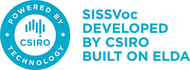
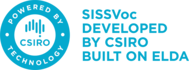
CC-2627 Rebrand to ARDC style guide
Rebrand the HTML pages to conform to the new ARDC style guide.
In particular, match the Portal's new updated header and footer.
Use updated logos.

RVA-40

diff --git a/common/resources/default/css/mystyle.css b/common/resources/default/css/mystyle.css
@@ -6,20 +6,15 @@
    overflow-wrap, but it didn't work (Firefox Mac 41: why?), so used the
    old-style word-wrap instead. */
 header h1 {
-    background: url("../images/molecule.png") no-repeat scroll 0 0 transparent;
+    background: none;
     line-height: 1em;
     word-wrap: break-word;
 }
 
-/* ANDS RVA Banner. */
-nav.site {
-    background: url("../images/ands-sissvoc-banner.png") no-repeat 0% 0%;
-    padding-top: 54px;
-}
-
 /* Indent any more info link in the header. */
 header p {
-    font-family: "Gill Sans", Arial, sans-serif;
+/*    font-family: "Gill Sans", Arial, sans-serif; */
+    font-family: 'Roboto', sans-serif;
     font-size: 130%;
     margin-left: 110px;
     padding-bottom: 10px;
@@ -33,4 +28,176 @@ header p {
 
 .pull-right {
     float: right !important;
+}
+
+/* Re-branding to ARDC style. */
+/* Make the page full width, and remove side panels */
+/* Remove "gradient" background. */
+/* Use new RVA logo. */
+
+/* Remove background image. */
+body {
+    background-image: none;
+    font-family: 'Roboto', sans-serif;
+    font-size: 14px;
+    color: black;
+}
+
+/* ANDS RVA Banner. */
+div.nav-site-container {
+    border: 1px solid transparent;
+    box-sizing: border-box;
+    line-height: 24px;
+}
+nav.site {
+    width:  1170px;
+    margin-right: auto;
+    margin-left: auto;
+    background: none;
+    padding-top: 0px;
+    height: 90px;
+    box-sizing: border-box;
+    padding-left: 15px;
+    padding-right: 15px;
+}
+nav.site * {
+    box-sizing: border-box;
+}
+
+#page-header {
+    -webkit-box-shadow: none;
+    -moz-box-shadow: none;
+    background-color: #7e408a;
+    margin: 0px;
+    width: 1140px;
+    margin-right: auto;
+    margin-left: auto;
+    padding-left: 15px;
+    padding-right: 15px;
+}
+
+
+#page-border {
+    padding-bottom: 15px;
+}
+#page-header-border, #page-border {
+    background: #e9e9e9;
+}
+#page-header-border {
+    padding-top: 15px;
+}
+
+#page {
+    -webkit-box-shadow: none;
+    -moz-box-shadow: none;
+    background: white;
+    margin: 0px;
+    width: 1140px;
+    margin-right: auto;
+    margin-left: auto;
+    padding-top: 15px;
+    padding-left: 15px;
+    padding-right: 15px;
+    padding-bottom: 15px;
+}
+
+header h1 {
+    /* This is based on h4 of the Portal. */
+    display: inline-block;
+    font-family: 'Roboto', sans-serif;
+    font-weight: bold;
+    font-size: 24px;
+    line-height: 32px;
+    color: black;
+    margin-left: 0px;
+    padding: 0.5em 0px 0.5em;
+}
+
+h1.vocab-title {
+    color: white;
+}
+
+.panel header h1 {
+    font-family: 'Roboto', sans-serif;
+    font-size: 24px;
+    line-height: 32px;
+}
+
+button, #openSearch {
+    font-family: 'Roboto', sans-serif;
+}
+
+footer .provenance {
+    background: none;
+    /*  color: revert; */
+    margin-top: 0px;
+    padding: 10px;
+    position: relative;
+}
+
+/* Heading "Linked Data API". */
+nav section.lda-heading {
+    /* Like h4 of the Portal. */
+    font-family: 'Roboto', sans-serif;
+    font-weight: bold;
+    font-size: 18px;
+    float: right;
+    margin-top: 20px;
+}
+nav section.lda-heading span {
+    display: inline-block;
+    vertical-align: middle;
+}
+nav section.lda-heading span.image {
+    display: inline-block;
+    vertical-align: middle;
+    background: url("../images/molecule.png") no-repeat right center/auto 30px content-box;
+/* // no-repeat scroll 0 0 transparent;//  content-box; */
+    height: 40px;
+    width: 40px;
+}
+
+a:link , a:visited , a:active  {
+    color: #7e408a;
+    text-decoration: none;
+}
+
+a:hover {
+    color: #7e408a;
+    text-decoration: underline;
+}
+
+/* Formats are now in the header. */
+nav.formats {
+    float: right;
+}
+
+/* Reduce left/right margins and padding. */
+nav section.formats {
+    margin-top: 10px;
+    margin-bottom: 10px;
+    margin-right: 0px;
+}
+nav.topnav {
+    padding-right: 15px;
+}
+#result {
+    width: 780px;
+    padding-right: 15px;
+    padding-left: 15px;
+}
+.panel section {
+    width: 735px;
+}
+
+/* Footer colours. */
+footer {
+    background: black;
+    color: white;
+}
+/* Because the footer now has a black background,
+   we must adjust links in the footer to compensate. */
+footer a:link , footer a:visited , footer a:active , footer a:hover  {
+    color: white;
+    text-decoration: underline;
 }

diff --git a/source/resources/default/images/README.md b/source/resources/default/images/README.md
@@ -1,13 +1,5 @@
-# Halve the size of the JPG images we were given:
+# Halve the size of the JPG image we were given:
 
-convert BRANDMARK_SISSVoc_Solid_small_optimised.jpg -resize x70 csiro-brandmark-resized.png
-convert ARDC_logo_RGB_small_optimised.jpg -resize x65 ardc-logo-resized-65.png
+convert 18-00574_BRANDMARK_SISSVoc_Solid.png -resize x70 csiro-brandmark-resized.png
 
-# But now they're different height. Align the text that goes
-# underneath them by making the shorter one taller, by adding white
-# space underneath.  The CSIRO logo is the taller, at 70 px high. The
-# ARDC logo size is 200x65. So make a "canvas" image that is 200x70,
-# then compose them.
-
-convert -size 200x70 xc:white ardc-logo-resized-canvas.png
-convert ardc-logo-resized-canvas.png ardc-logo-resized-65.png -composite ardc-logo-resized-70.png
+We now use the new ARDC logo in SVG format, and that can be used as-is.
